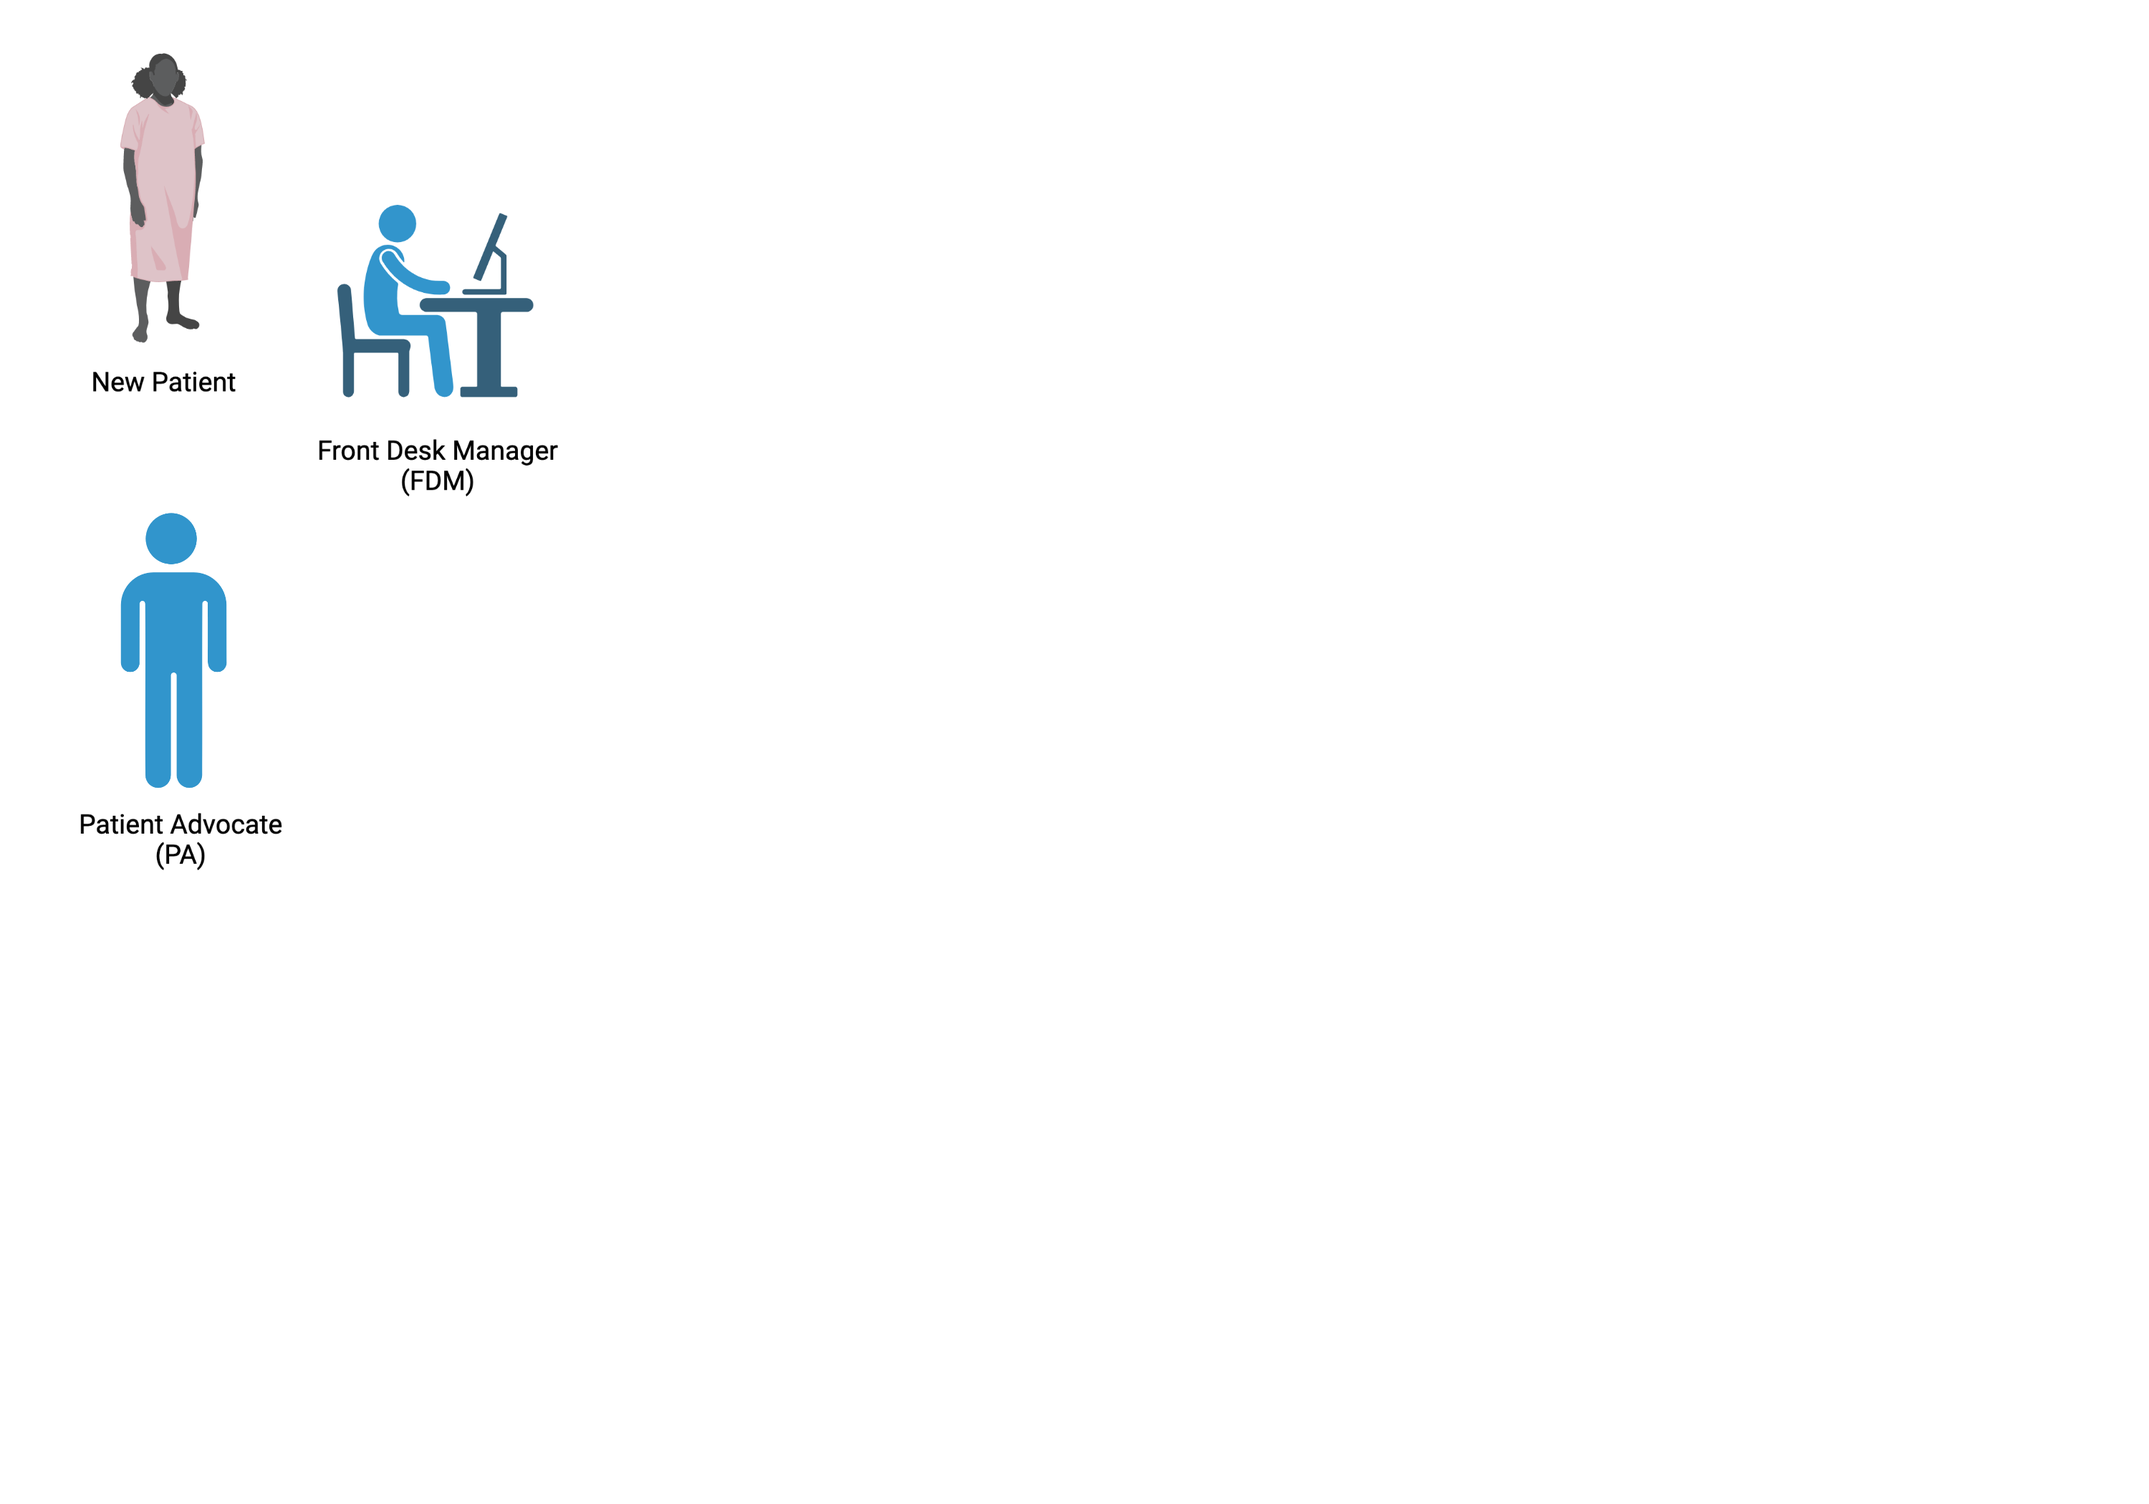
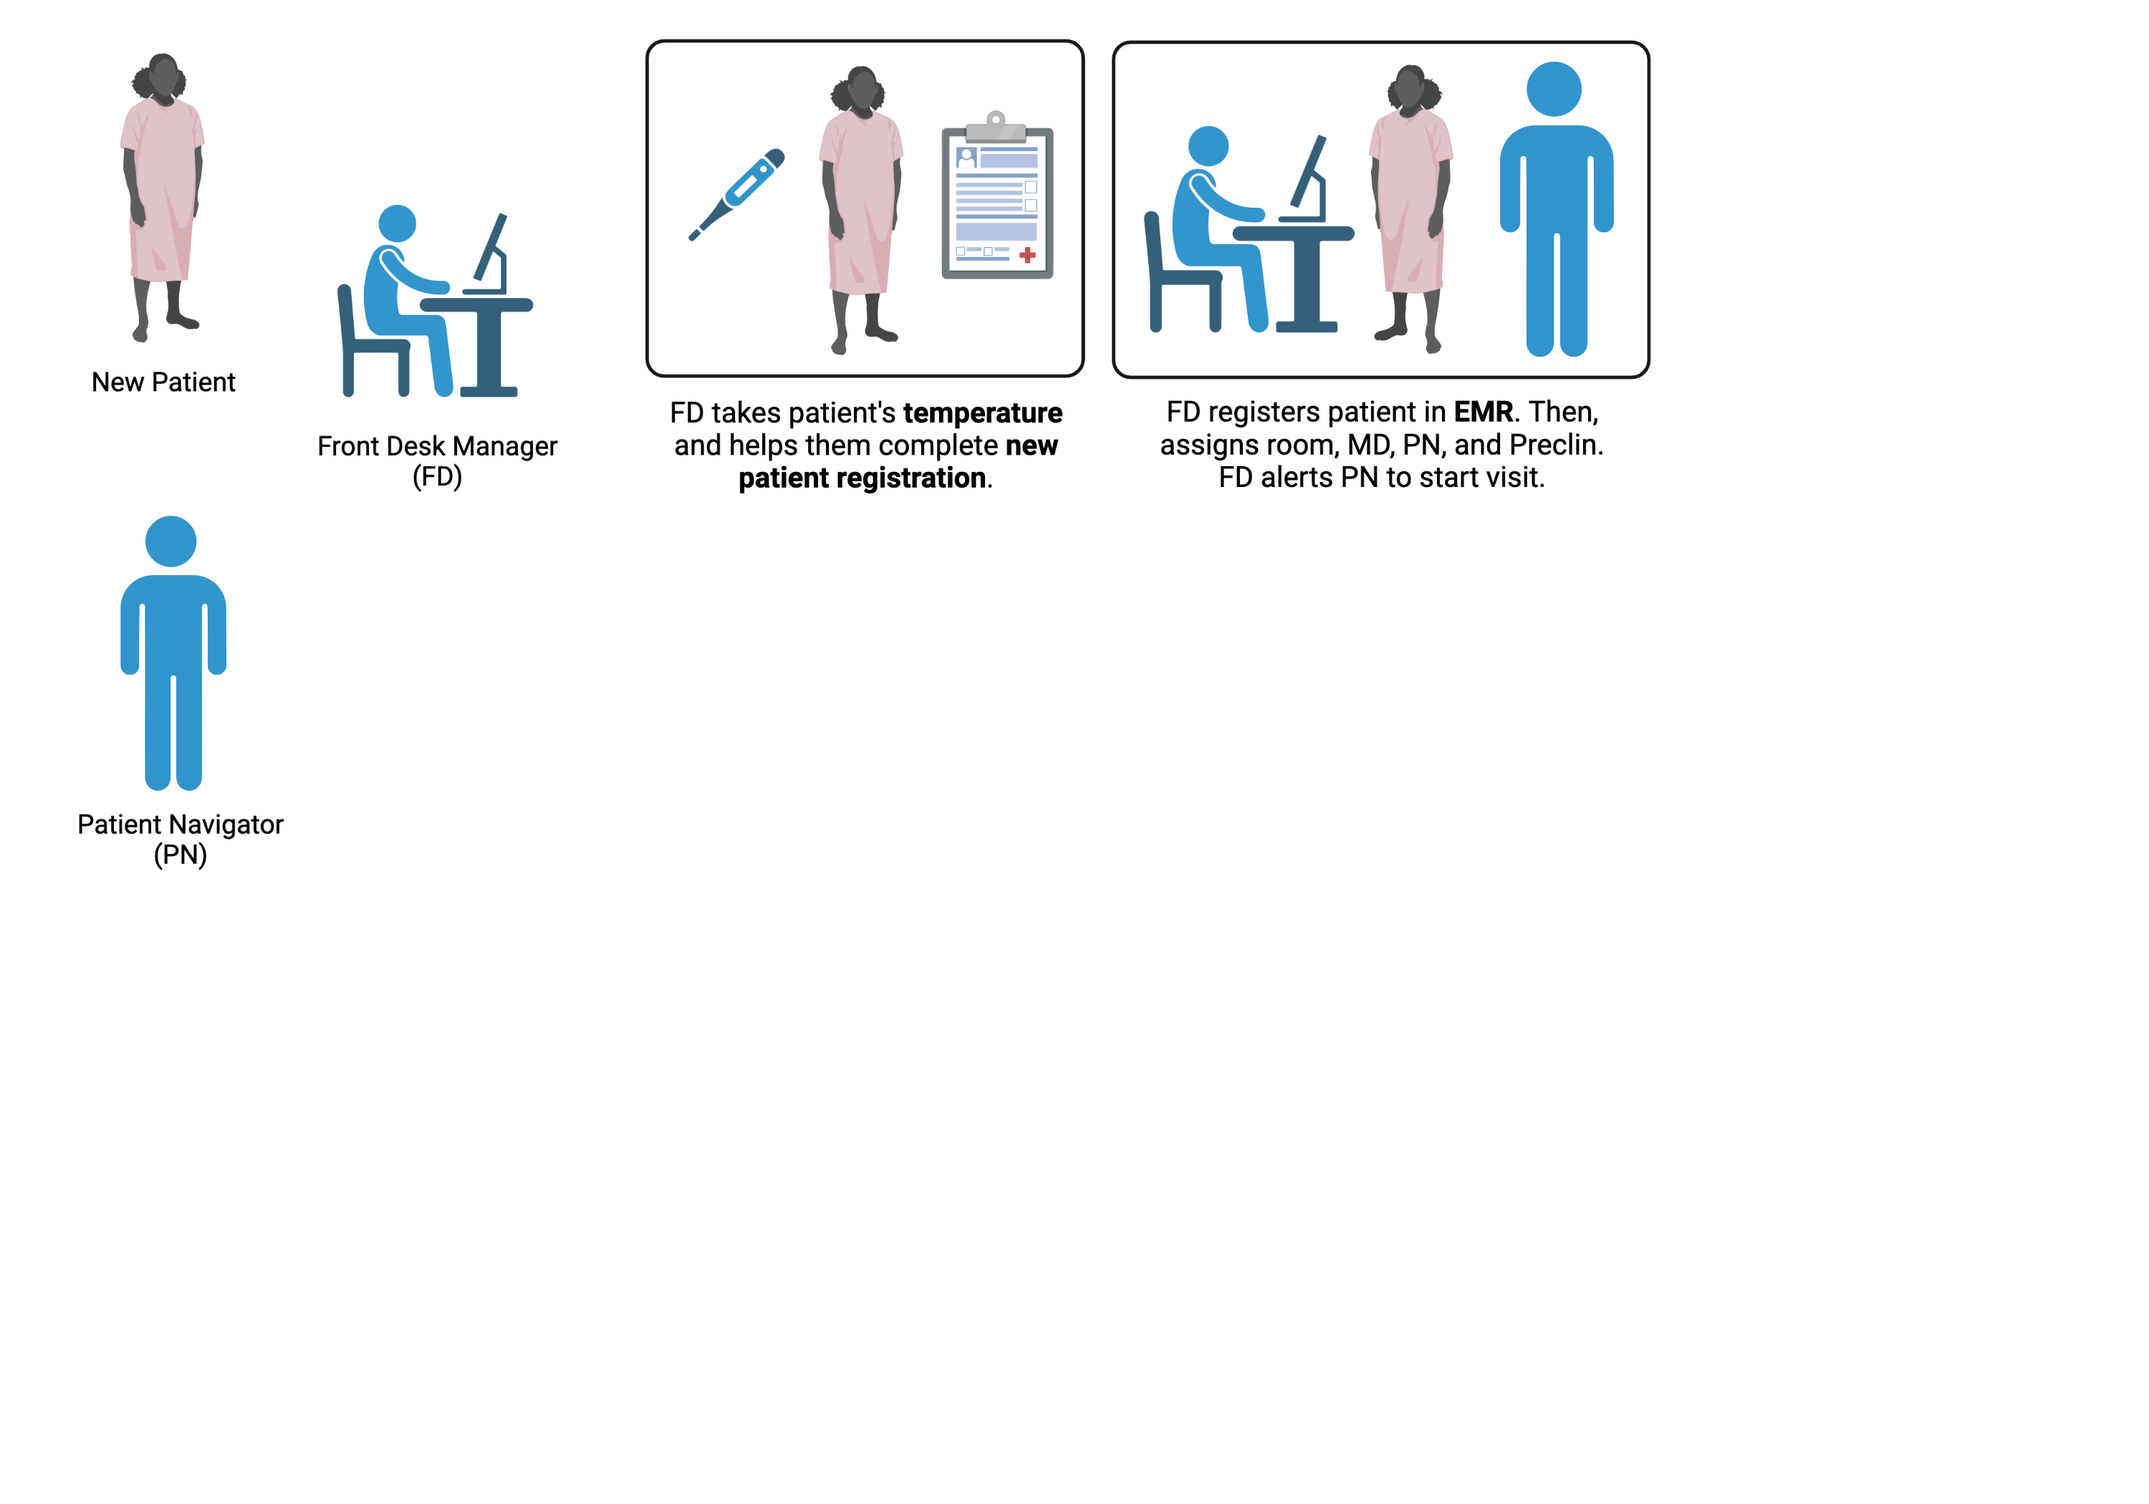
patient navigator

diff --git a/pages/volunteers/index.js b/pages/volunteers/index.js
@@ -1,16 +1,196 @@
+import { useEffect, useState } from 'react';
 import Head from 'next/head'
+import Image from 'next/image'
 import styles from '../../styles/Volunteers.module.css'
 //import Welcome from '../components/Welcome'
 
+import { styled } from '@mui/material/styles';
+import Paper from '@mui/material/Paper';
+import ArrowForwardIosSharpIcon from '@mui/icons-material/ArrowForwardIosSharp';
+import MuiAccordion from '@mui/material/Accordion';
+import MuiAccordionSummary from '@mui/material/AccordionSummary';
+import MuiAccordionDetails from '@mui/material/AccordionDetails';
+
+import ArrowBack from '@mui/icons-material/ArrowBackIosNew';
+import ArrowForward from '@mui/icons-material/ArrowForwardIos';
+
+const Accordion = styled((props) => (
+  <MuiAccordion disableGutters elevation={0} square {...props} />
+))(({ theme }) => ({
+  border: `1px solid ${theme.palette.divider}`,
+  '&:not(:last-child)': {
+    borderBottom: 0,
+  },
+  '&:before': {
+    display: 'none',
+  },
+}));
+
+const AccordionSummary = styled((props) => (
+  <MuiAccordionSummary
+    expandIcon={<ArrowForwardIosSharpIcon sx={{ fontSize: '0.9rem' }} />}
+    {...props}
+  />
+))(({ theme }) => ({
+  backgroundColor:
+    theme.palette.mode === 'dark'
+      ? 'rgba(255, 255, 255, .05)'
+      : 'rgba(0, 0, 0, .03)',
+  flexDirection: 'row-reverse',
+  '& .MuiAccordionSummary-expandIconWrapper.Mui-expanded': {
+    transform: 'rotate(90deg)',
+  },
+  '& .MuiAccordionSummary-content': {
+    marginLeft: theme.spacing(1),
+  },
+}));
+
+const AccordionDetails = styled(MuiAccordionDetails)(({ theme }) => ({
+  padding: theme.spacing(2),
+  borderTop: '1px solid rgba(0, 0, 0, .125)',
+}));
+
 export default function Volunteers() {
+  const [expanded, setExpanded] = useState('panel1');
+  const [flow, setFlow] = useState(1);
+
+  const handleChange = (panel) => (event, newExpanded) => {
+    setExpanded(newExpanded ? panel : false);
+  };
+
+  const nextFlow = (e) => {
+    setFlow(flow+1);
+  }
+
+  const prevFlow = (e) => {
+    setFlow(flow-1);
+  }
+
+  const endFlow = (e) => {
+    setFlow(8);
+  }
+
   return (
     <div className={styles.container}>
       <Head>
-        <title>Arbor Free Clinic Resources</title>
+        <title>New Clinic Workflow</title>
         <meta name="description" content="Access affordable care options" />
         <link rel="icon" href="/logo.png" />
       </Head>
-      {/* <Welcome /> */}
+      <div className={styles.letterBackground}>
+        <Paper className={styles.letter} elevation={16}>
+          <h2>New Arbor Workflow</h2>
+          <p>Effective 10/1/2022</p>
+          <br/>
+          <h4 className={styles.mobile}>* For a better viewing experience, try opening this link on a bigger screen. *</h4>
+          <br/>
+          <h3>Motivation</h3>
+          <div className={styles.accordian}>
+            <Accordion expanded={expanded === 'panel1'} onChange={handleChange('panel1')}>
+              <AccordionSummary aria-controls="panel1d-content" id="panel1d-header">
+                <h5>Training Challenges</h5>
+              </AccordionSummary>
+              <AccordionDetails>
+                <p>
+                  &emsp; Having MED 181 online the past 2 years has impacted our training process and forced many 
+                  of our volunteers to learn their roles during (shadowing) shifts. Training is also fragmented into 
+                  specific positions that can leave volunteers with an incomplete picture of clinic, a lack of 
+                  experienced volunteers to seek guidance from, and lead to misunderstandings between different roles. 
+                </p>
+                {/* <p>
+                  &emsp; Having MED 181 online has impacted our training process and forced many 
+                  of our volunteers to learn their roles during (shadowing) shifts. Training is also fragmented into 
+                  specific positions that can leave volunteers with:
+                </p>
+                <ul >
+                  <li>An incomplete picture of clinic</li>
+                  <li>Lead to misunderstandings between different roles</li>
+                  <li>A lack of experienced volunteers to seek guidance from</li>
+                </ul> */}
+              </AccordionDetails>
+            </Accordion>
+            <Accordion expanded={expanded === 'panel2'} onChange={handleChange('panel2')}>
+              <AccordionSummary aria-controls="panel2d-content" id="panel2d-header">
+                <h5>Division of Patient Care</h5>
+              </AccordionSummary>
+              <AccordionDetails>
+                <p>
+                  &emsp; Having so many different roles can also overwhelm our patients and lead to a diffusion 
+                  of responsibility of each patient’s care. As the patient moves throughout clinic, 
+                  there are many handoffs where key patient information needs to be communicated in a 
+                  very short window of time. These transfers often lead to delays and mistakes that affect 
+                  both the patient and volunteer experience.
+                </p>
+              </AccordionDetails>
+            </Accordion>
+            <Accordion expanded={expanded === 'panel3'} onChange={handleChange('panel3')}>
+              <AccordionSummary aria-controls="panel3d-content" id="panel3d-header">
+                <h5>Volunteer Sustainability</h5>
+              </AccordionSummary>
+              <AccordionDetails>
+                <p>
+                  &emsp; Differences in roles also forces some volunteers to do extra work after clinic is over, 
+                  while other volunteers are needed as soon as they arrive. Some volunteers want to take on more tasks 
+                  and be more closely involved in patient care while others just want more time to interact with their 
+                  patients. Our changes below seek to create an equitable distribution of clinic responsibilities 
+                  and opportunities. 
+                </p>
+              </AccordionDetails>
+            </Accordion>
+          </div>
+          <br/><br/>
+          <h3>New Roles</h3>
+          <div className={styles.roles}>
+            <p>
+              &emsp; Our new clinic workflow centers around the <strong>Patient Navigator</strong> training, 
+              which <u>all volunteers will receive</u>. After 3 quarters in the Patient Navigator role, volunteers 
+              are eligible to become <strong>Referrals Chairs</strong>, <strong>Front Desk Managers</strong>, 
+              or <strong>Preclinical Volunteers</strong>.
+            </p>
+            <div className={styles.img}>
+              <Image src="/images/volunteers/roles.png" layout="fill" />
+            </div>
+          </div>
+          <br/>
+          <h3>New Clinic Flow</h3>
+          <br/>
+          <p>&emsp; Click on the arrows to walk through our new clinic flow or <a onClick={(e) => endFlow(e)}>jump to the end</a>.</p>
+          <div className={styles.flow}>
+            {flow == 1 ? <ArrowBack className={styles.grey}/> : <ArrowBack className={styles.arrow} onClick={(e) => prevFlow(e)} />}
+            <div className={styles.img}>
+              <Image src={`/images/volunteers/flow/${flow}.png`} layout="fill" priority={true} />
+            </div>
+            {/* <img src={`/images/volunteers/flow/${flow}.png`} /> */}
+            {flow == 8 ? <ArrowForward className={styles.grey}/> : <ArrowForward className={styles.arrow} onClick={(e) => nextFlow(e)} />}
+          </div>
+          <br/>
+          <h3>Required Training</h3>
+          <div className={styles.training}>
+            <p>
+              &emsp; As stated before, we are making the <strong>Patient Navigator</strong> training available to all 
+              current Arbor volunteers. It will be a (MED 182) <strong><u>requirement for all volunteers with shifts 
+              after 10/1/2022</u></strong>. 
+            </p>
+            <br />
+            <p>
+              &emsp; The easiest way to fulfill this requirement is to attend our <strong>Fall All Hands</strong> on{' '}
+              <strong>Saturday, October 1 from 10:00am-12:30pm</strong>. If you have a conflict, please email the managers 
+              as soon as possible so that we can schedule a 1-on-1 training with you before your next scheduled shift.
+            </p>
+          </div>
+          <br/>
+          <h3>*** Action REQUIRED ***</h3>
+          <div className={styles.required}>
+            <p>
+              &emsp; To acknowledge that you have reviewed our new workflow, please sign up for your <strong>fall shifts</strong> on the{' '}
+              <strong><a href="https://docs.google.com/spreadsheets/d/1UzrjWoiBUE6N7N2JmylI95hB_qLn6CQK0V60xUsX3S4/edit#gid=918942208" target="_blank" rel="noreferrer">Arbor Volunteer Schedule</a></strong>,
+              which includes a column for our Fall All Hands. To ensure you are scheduled, <u>please mark at least 2 &quot;Available&quot; 
+              dates between every set of black bars</u> <strong>by 9/13</strong>.{' '}
+              <u>Shifts will be assigned on a rolling basis, so sign up as soon as you can!</u>
+            </p>
+          </div>
+        </Paper>
+      </div>
     </div>
   )
 }

diff --git a/pages/volunteers/new/index.js b/pages/volunteers/new/index.js
@@ -1,5 +1,6 @@
 import { useEffect, useState } from 'react';
 import Head from 'next/head'
+import Image from 'next/image'
 import styles from '../../../styles/Volunteers.module.css'
 //import Welcome from '../components/Welcome'
 
@@ -96,6 +97,16 @@ export default function Volunteers() {
                   specific positions that can leave volunteers with an incomplete picture of clinic, a lack of 
                   experienced volunteers to seek guidance from, and lead to misunderstandings between different roles. 
                 </p>
+                {/* <p>
+                  &emsp; Having MED 181 online has impacted our training process and forced many 
+                  of our volunteers to learn their roles during (shadowing) shifts. Training is also fragmented into 
+                  specific positions that can leave volunteers with:
+                </p>
+                <ul >
+                  <li>An incomplete picture of clinic</li>
+                  <li>Lead to misunderstandings between different roles</li>
+                  <li>A lack of experienced volunteers to seek guidance from</li>
+                </ul> */}
               </AccordionDetails>
             </Accordion>
             <Accordion expanded={expanded === 'panel2'} onChange={handleChange('panel2')}>
@@ -136,15 +147,20 @@ export default function Volunteers() {
               are eligible to become <strong>Referrals Chairs</strong>, <strong>Front Desk Managers</strong>, 
               or <strong>Preclinical Volunteers</strong>.
             </p>
-            <img src="/images/volunteers/roles.png"></img>
+            <div className={styles.img}>
+              <Image src="/images/volunteers/roles.png" layout="fill" />
+            </div>
           </div>
           <br/>
           <h3>New Clinic Flow</h3>
           <br/>
-          <p>Click on the arrows to walk through our new clinic flow or <a onClick={(e) => endFlow(e)}>jump to the end</a>.</p>
+          <p>&emsp; Click on the arrows to walk through our new clinic flow or <a onClick={(e) => endFlow(e)}>jump to the end</a>.</p>
           <div className={styles.flow}>
             {flow == 1 ? <ArrowBack className={styles.grey}/> : <ArrowBack className={styles.arrow} onClick={(e) => prevFlow(e)} />}
-            <img src={`/images/volunteers/flow/${flow}.png`} />
+            <div className={styles.img}>
+              <Image src={`/images/volunteers/flow/${flow}.png`} layout="fill" priority={true} />
+            </div>
+            {/* <img src={`/images/volunteers/flow/${flow}.png`} /> */}
             {flow == 14 ? <ArrowForward className={styles.grey}/> : <ArrowForward className={styles.arrow} onClick={(e) => nextFlow(e)} />}
           </div>
           <br/>
@@ -158,7 +174,7 @@ export default function Volunteers() {
             <br />
             <p>
               &emsp; The easiest way to fulfill this requirement is to attend our <strong>Fall All Hands</strong> on{' '}
-              <strong>Saturday, October 1 from 10:30am-12pm</strong>. If you have a conflict, please email the managers 
+              <strong>Saturday, October 1 from 10:00am-12:30pm</strong>. If you have a conflict, please email the managers 
               as soon as possible so that we can schedule a 1-on-1 training with you before your next scheduled shift.
             </p>
           </div>
@@ -166,10 +182,11 @@ export default function Volunteers() {
           <h3>*** Action REQUIRED ***</h3>
           <div className={styles.required}>
             <p>
-              &emsp; To acknowledge that you have reviewed our new workflow, please sign up for your fall shifts on the{' '}
+              &emsp; To acknowledge that you have reviewed our new workflow, please sign up for your <strong>fall shifts</strong> on the{' '}
               <strong><a href="https://docs.google.com/spreadsheets/d/1UzrjWoiBUE6N7N2JmylI95hB_qLn6CQK0V60xUsX3S4/edit#gid=918942208" target="_blank" rel="noreferrer">Arbor Volunteer Schedule</a></strong>,
-              which includes a column for our Fall All Hands. To ensure you are scheduled, <strong>please mark at least 2 &quot;Available&quot; 
-              dates between every set of black bars.</strong>
+              which includes a column for our Fall All Hands. To ensure you are scheduled, <u>please mark at least 2 &quot;Available&quot; 
+              dates between every set of black bars</u> <strong>by 9/13</strong>. 
+              <u>Shifts will be assigned on a rolling basis, so sign up as soon as you can!</u>
             </p>
           </div>
         </Paper>

diff --git a/styles/Volunteers.module.css b/styles/Volunteers.module.css
@@ -67,14 +67,24 @@
   padding: 1rem;
 }
 
-.letter .roles img {
-  margin-top: 1rem;
-  width: 70%;
+.letter .roles .img {
+  margin-top: 2rem;
+  height: 20vw;
+  width: 32vw;
+  position: relative;
+}
+
+@media (max-width: 150vh) {
+  .letter .roles .img {
+    height: 30vw;
+    width: 48vw;
+  }
 }
 
 @media (max-width: 720px) {
-  .letter .roles img {
-    width: 100%;
+  .letter .roles .img {
+    height: 45vw;
+    width: 72vw;
   }
 }
 
@@ -83,8 +93,29 @@
   display: flex;
 }
 
-.letter .flow img {
+/* .letter .flow img {
   width: 95%;
+} */
+
+.letter .flow .img {
+  margin-top: 1rem;
+  position: relative;
+  height: 42vw;
+  width: 60vw;
+}
+
+@media (max-width: 150vh) {
+  .letter .flow .img {
+    height: 56vw;
+    width: 80vw;
+  }
+}
+
+@media (max-width: 720px) {
+  .letter .flow .img {
+    height: 63vw;
+    width: 90vw;
+  }
 }
 
 .letter .flow .arrow {
@@ -98,6 +129,10 @@
 .letter a {
   color: #4F93C7;
   cursor: pointer;
+}
+
+.letter a:hover {
+  color: #2c6b9b;
 }
 
 .training a {
